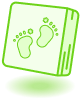
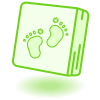
:lipstick: 리소스 정비
발자국과 책 마커의 리소스를 중앙 정렬한 정사각형 이미지로 전환, Null 카테고리의 리소스 삭제, 이름 변경

관련 이슈 번호: #108

Changed region(s): [[0.025, 0.0, 1.0, 0.78], [0.8, 0.81, 0.875, 0.9], [0.125, 0.81, 0.2, 0.9]]

diff --git a/feature/footprint/src/main/java/com/umc/footprint/implementation/MapHandlerImpl.kt b/feature/footprint/src/main/java/com/umc/footprint/implementation/MapHandlerImpl.kt
@@ -69,27 +69,42 @@ class MapHandlerImpl @Inject constructor(
         )
     )
 
-    private val defaultMarkerImage: OverlayImage = OverlayImage.fromBitmap(
-        loadRawImageAsBitmap(
-            context = context,
-            rawResourceId = R.raw.ic_footprint,
-            size = DesignConstant.MarkerSize,
+    private val footMarkerImages: Map<CategoryColor, OverlayImage> = mapOf(
+        CategoryColor.RED to R.raw.ic_foot_red,
+        CategoryColor.ORANGE to R.raw.ic_foot_orange,
+        CategoryColor.YELLOW to R.raw.ic_foot_yellow,
+        CategoryColor.GREEN to R.raw.ic_foot_green,
+        CategoryColor.TURQUOISE to R.raw.ic_foot_turquoise,
+        CategoryColor.BLUE to R.raw.ic_foot_blue,
+        CategoryColor.NAVY to R.raw.ic_foot_navy,
+        CategoryColor.PURPLE to R.raw.ic_foot_purple,
+        CategoryColor.BROWN to R.raw.ic_foot_brown,
+        CategoryColor.PINK to R.raw.ic_foot_pink,
+        CategoryColor.WHITE to R.raw.ic_foot_white,
+        CategoryColor.BLACK to R.raw.ic_foot_black,
+    ).mapValues { (_, value) ->
+        OverlayImage.fromBitmap(
+            loadRawImageAsBitmap(
+                context = context,
+                rawResourceId = value,
+                size = DesignConstant.MarkerSize,
+            )
         )
-    )
+    }
 
-    private val markerImages: Map<CategoryColor, OverlayImage> = mapOf(
-        CategoryColor.RED to R.raw.ic_footprint_red,
-        CategoryColor.ORANGE to R.raw.ic_footprint_orange,
-        CategoryColor.YELLOW to R.raw.ic_footprint_yellow,
-        CategoryColor.GREEN to R.raw.ic_footprint_green,
-        CategoryColor.TURQUOISE to R.raw.ic_footprint_turquoise,
-        CategoryColor.BLUE to R.raw.ic_footprint_blue,
-        CategoryColor.NAVY to R.raw.ic_footprint_navy,
-        CategoryColor.PURPLE to R.raw.ic_footprint_purple,
-        CategoryColor.BROWN to R.raw.ic_footprint_brown,
-        CategoryColor.PINK to R.raw.ic_footprint_pink,
-        CategoryColor.WHITE to R.raw.ic_footprint_white,
-        CategoryColor.BLACK to R.raw.ic_footprint_black,
+    private val bookMarkerImages: Map<CategoryColor, OverlayImage> = mapOf(
+        CategoryColor.RED to R.raw.ic_book_red,
+        CategoryColor.ORANGE to R.raw.ic_book_orange,
+        CategoryColor.YELLOW to R.raw.ic_book_yellow,
+        CategoryColor.GREEN to R.raw.ic_book_green,
+        CategoryColor.TURQUOISE to R.raw.ic_book_turquoise,
+        CategoryColor.BLUE to R.raw.ic_book_blue,
+        CategoryColor.NAVY to R.raw.ic_book_navy,
+        CategoryColor.PURPLE to R.raw.ic_book_purple,
+        CategoryColor.BROWN to R.raw.ic_book_brown,
+        CategoryColor.PINK to R.raw.ic_book_pink,
+        CategoryColor.WHITE to R.raw.ic_book_white,
+        CategoryColor.BLACK to R.raw.ic_book_black,
     ).mapValues { (_, value) ->
         OverlayImage.fromBitmap(
             loadRawImageAsBitmap(
@@ -375,7 +390,8 @@ class MapHandlerImpl @Inject constructor(
         val density = context.resources.displayMetrics.density
 
         anchor = PointF(0.5f, 0.5f)
-        icon = markerImages[color] ?: defaultMarkerImage
+        // TODO: 발자국과 책 모양 중 적절한 것으로 선택하기
+        (if (false) bookMarkerImages[color] else footMarkerImages[color])?.let { icon = it }
         width = (DesignConstant.MarkerSize.width.value * density).roundToInt()
         height = (DesignConstant.MarkerSize.height.value * density).roundToInt()
         this.zIndex = zIndex
